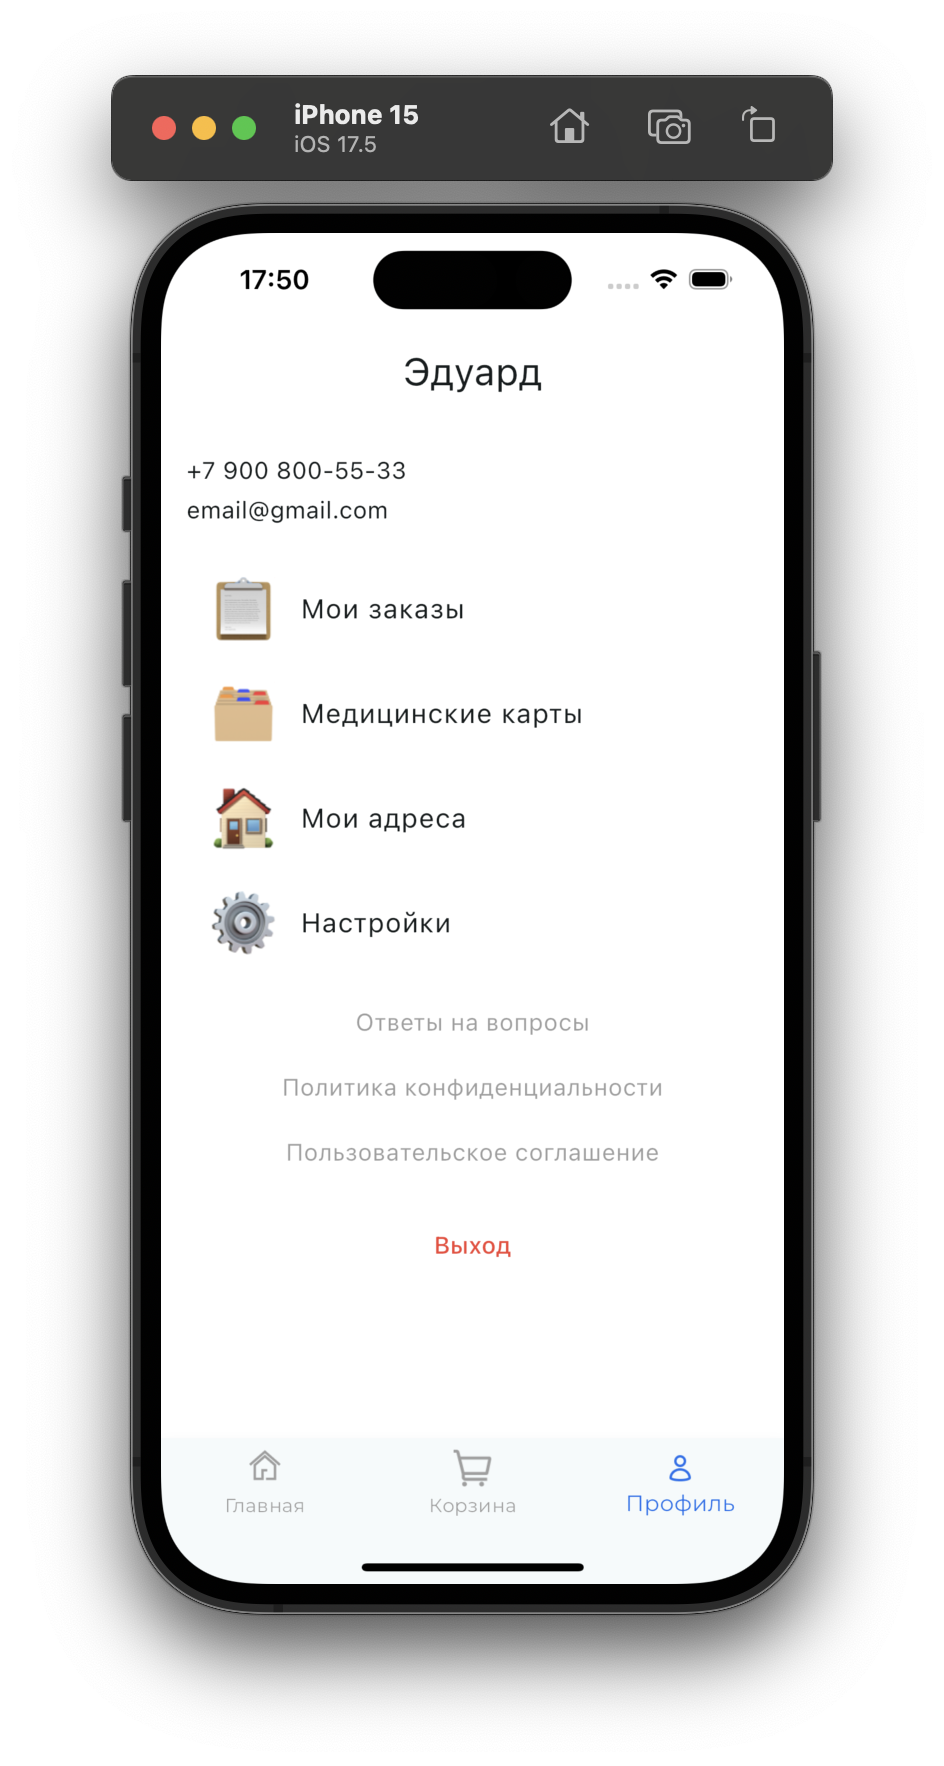
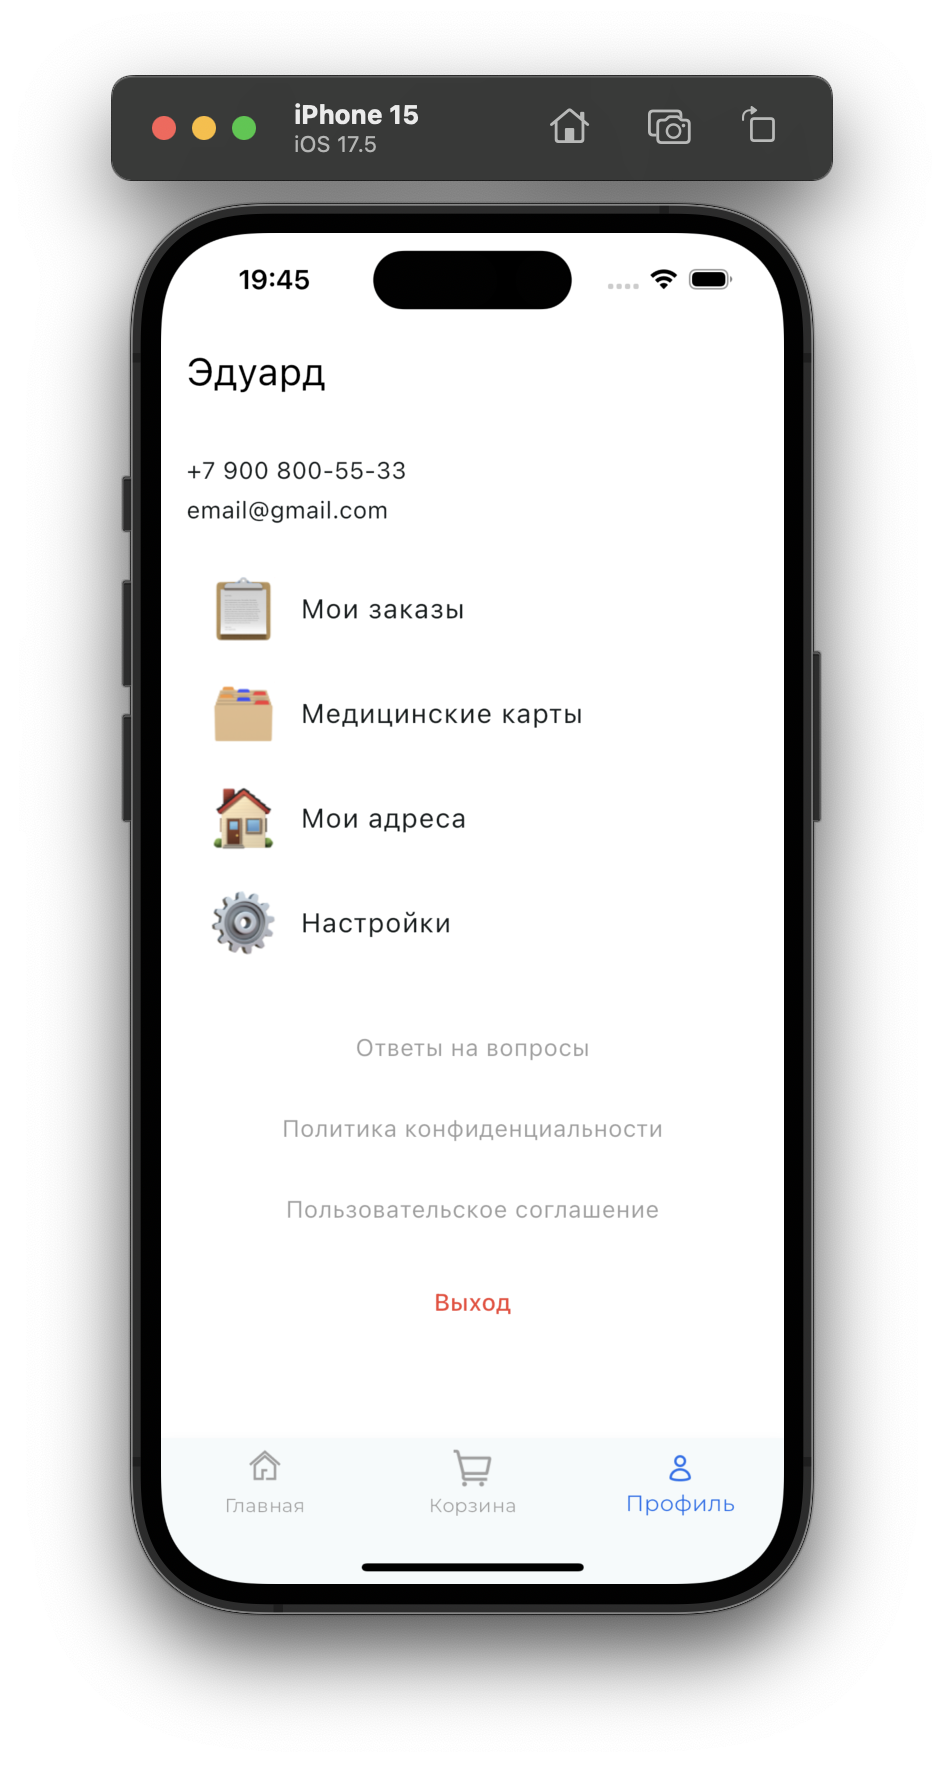
/

diff --git a/lib/pages/profile_page.dart b/lib/pages/profile_page.dart
@@ -108,7 +108,7 @@ class ProfilePage extends StatelessWidget {
               ),
               onTap: () {},
             ),
-            const SizedBox(height: 24),
+            const SizedBox(height: 40),
             
             Center(
               child: Column(
@@ -122,7 +122,7 @@ class ProfilePage extends StatelessWidget {
                       fontSize: 15,
                     ),
                   ),
-                  const SizedBox(height: 20),
+                  const SizedBox(height: 30),
 
                   const Text(
                     'Политика конфиденциальности',
@@ -132,7 +132,7 @@ class ProfilePage extends StatelessWidget {
                       fontSize: 15,
                     ),
                   ),
-                  const SizedBox(height: 20),
+                  const SizedBox(height: 30),
 
                   const Text(
                     'Пользовательское соглашение',
